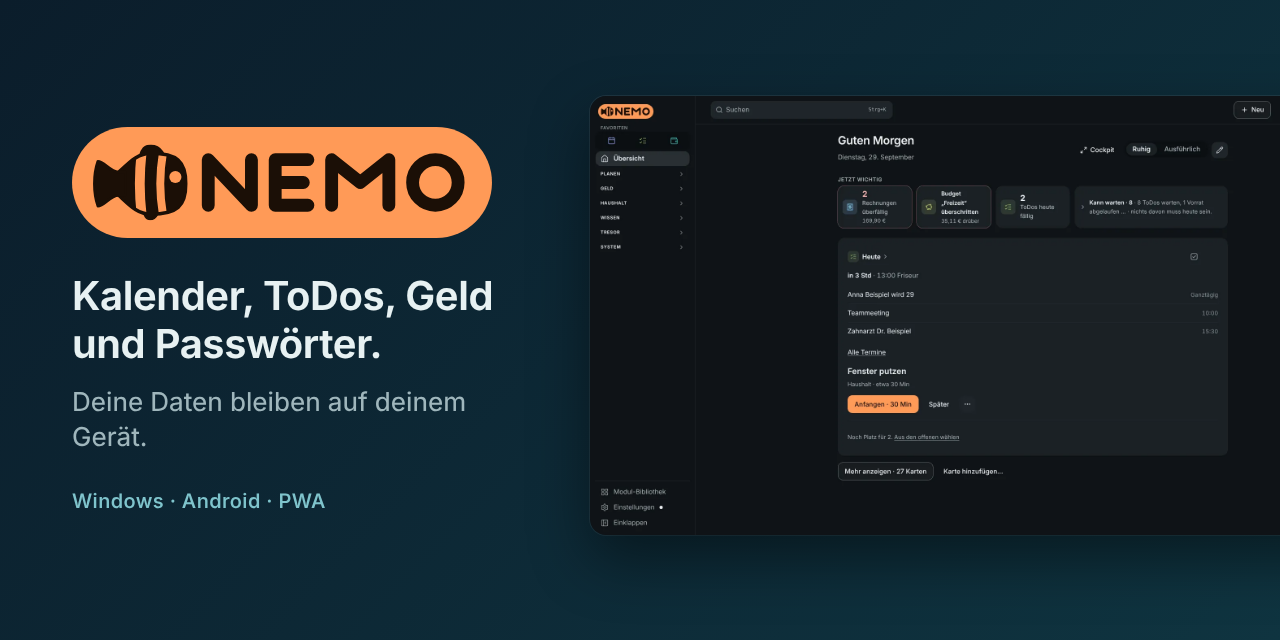
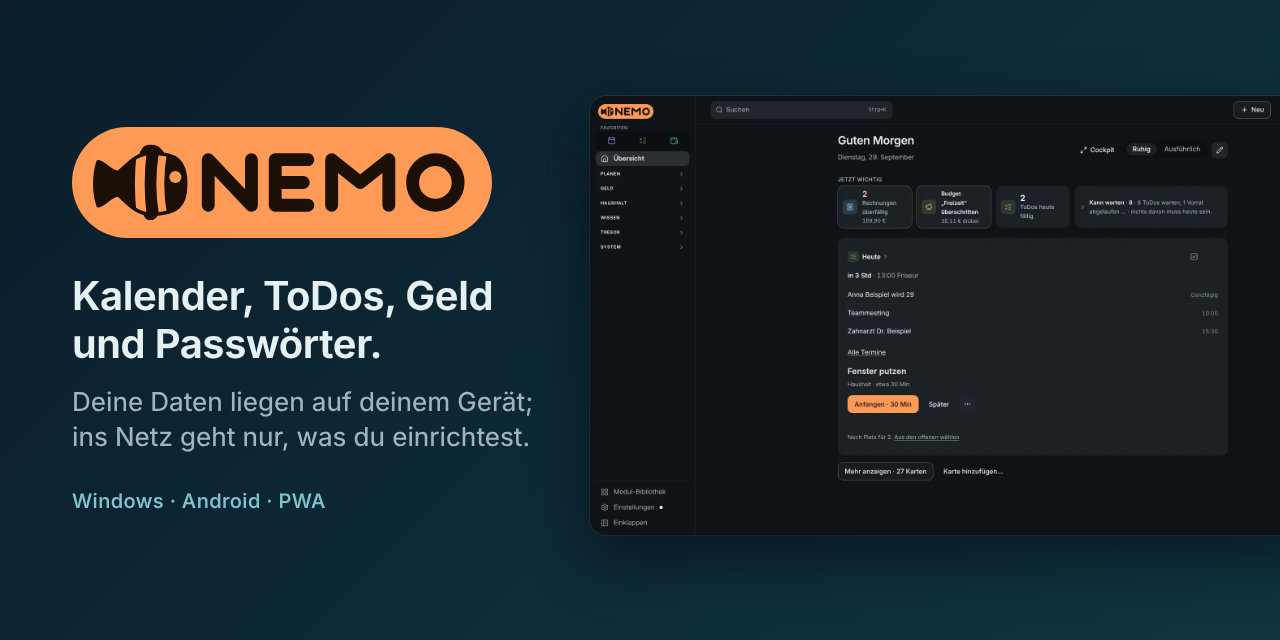
docs(brand): social preview carries the new line (D19)
Claude-Session: https://claude.ai/code/session_019RrxT5QT1Vq77vHgnSQJJr

Changed region(s): [[0.0625, 0.5938, 0.4062, 0.7188]]

diff --git a/docs/security/LAUNCH-REVIEW-2026-11.md b/docs/security/LAUNCH-REVIEW-2026-11.md
@@ -225,7 +225,7 @@ Audit results (run on this commit):
 | D16 | low | The website privacy pages said about AI "never your entries; in chat the chat text goes to the provider" – the chat can attach module data after a preview (the in-app notice says so) – **fixed** in the texts PR | `modules/chat/engine.ts:98-105`, `site/src/pages/datenschutz.astro:54`, `site/src/pages/en/privacy.astro:52`, `docs/user/faq.md:24`, `site/src/i18n/de.ts:202-204` (data page heading "The AI does not see your entries … nothing more", reworded) |
 | D17 | low | User docs said the server "only sees collection, IDs and timestamps" with end-to-end encryption; field names are readable too – **fixed** | `server/src/store.ts:8,117`, `docs/user/security.md:8` |
 | D18 | low | The sync guide said the PC "only listens on your home network" (the mDNS sockets of H10 listen on every interface) and that keys "are never synced"; the in-app sync notice said keys are never transferred – at pairing the data key goes once, encrypted, to the paired device – **fixed** in the texts PR ("accepts connections", the one exception named) | `docs/user/sync.md:13,102`, `strings.legal.ts:38,288`, `crates/lan-sync/src/pairing/mod.rs:31,108-109` |
-| D19 | low | The start-page headline and the README tagline said "your data stays on your device" without a condition – **fixed** in the texts PR ("your data lives on your device; only what you set up goes online"). Left: the social preview image still carries the old line (`web/scripts/gen-social.mjs:49,55`, `docs/brand/social-preview.png`); regenerate and upload it with package 11 | `site/src/i18n/de.ts:56`, `site/src/i18n/en.ts:50`, `README.md:12`, `README.de.md:12` · **proposal (#1086)**: `web/scripts/gen-social.mjs` is protected; ready change in the PR text, then regenerate and upload the image |
+| D19 | low | The start-page headline and the README tagline said "your data stays on your device" without a condition – **fixed** in the texts PR ("your data lives on your device; only what you set up goes online"). Left: the social preview image still carries the old line (`web/scripts/gen-social.mjs:49,55`, `docs/brand/social-preview.png`); regenerate and upload it with package 11 | `site/src/i18n/de.ts:56`, `site/src/i18n/en.ts:50`, `README.md:12`, `README.de.md:12` · **fixed (#PR)**: generator line and both images updated; Sven uploads `docs/brand/social-preview.png` (Settings → Social preview) |
 | D20 | low | The backup guide said "an edited file is refused"; the checksum is a plain SHA-256 that anyone can recompute, and a file without one passes as unprotected – **fixed** in the texts PR ("a damaged file is noticed") | `docs/user/backup.md:29`, `core/backup/encrypted.ts:113-125`, `core/backup/verify.ts:116-123` |
 
 ## Status of the earlier findings (LAUNCH-REVIEW-2026-10-06, AUDIT-2026-09-30)
